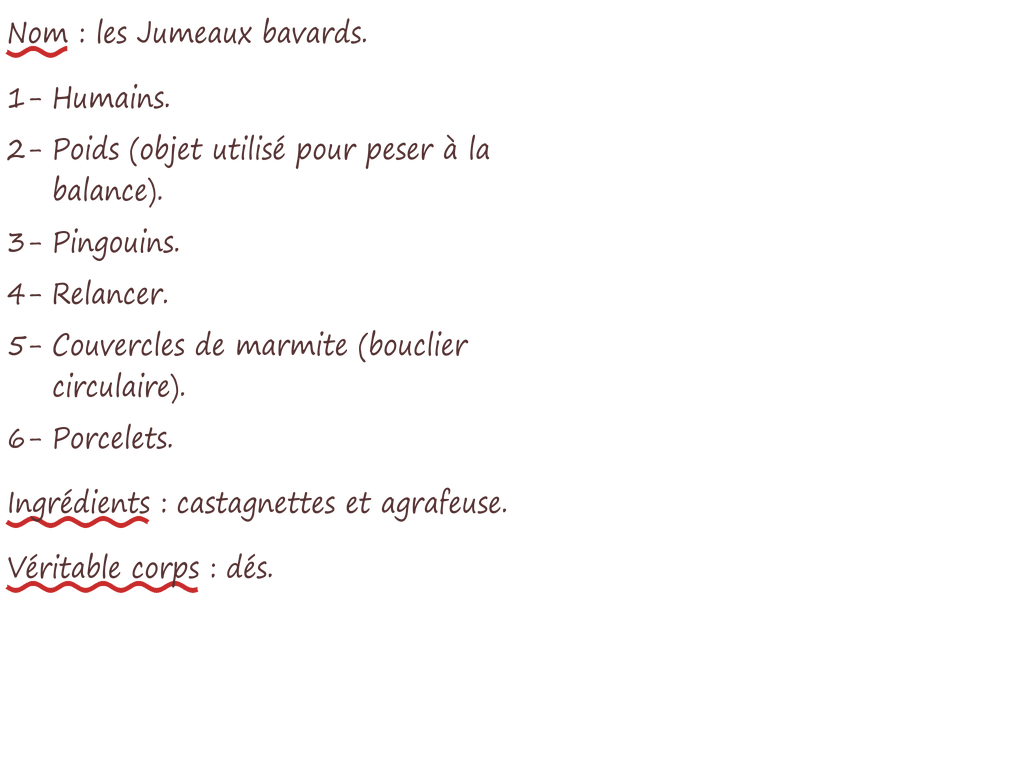
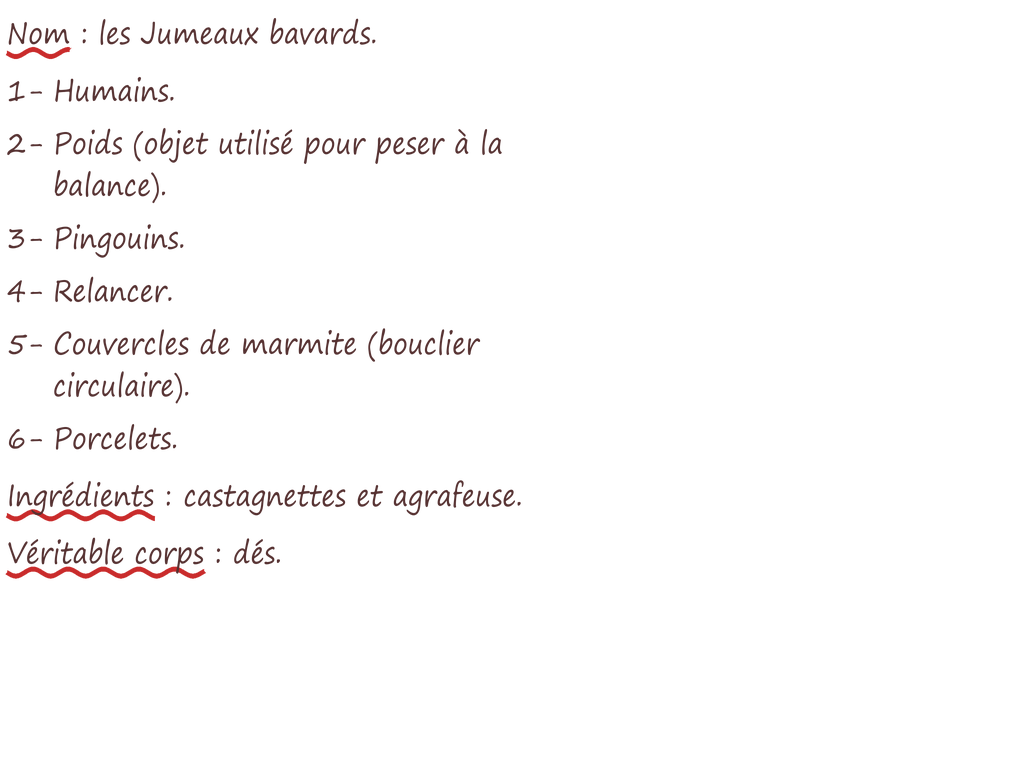
Fix hauteur des images

diff --git a/utils/images/ploy.py b/utils/images/ploy.py
@@ -85,6 +85,7 @@ LINE_COLOR = (201, 42, 42)
 SCALE_X = 0.87          # Segoe Print is wider than the original handwriting
 SIZE_PER_HEIGHT = 0.89  # font size for an original line of a given height
 ENTRY_PITCH = 2.2       # spacing between two entries (in font sizes)
+MIN_ENTRY_PITCH = 1.75  # tightest spacing, before reducing the size
 LINE_PITCH = 1.4        # line spacing inside an entry
 LIST_PITCH = 1.75       # spacing between two items of a numbered list
 WAVE = dict(thickness=5, amplitude=3.5, period=36)  # underline, measured on the English
@@ -166,16 +167,21 @@ def _draw_handwriting(image, texts, underlines, font, size, top):
 
 
 def sheet(image: GameImage, entries: list):
-	"""One entry per item: [underlined label or None, paragraph, paragraph…]."""
+	"""One entry per item: [underlined label or None, paragraph, paragraph…]. The sheet may be
+	as wide as the widest language, but not lower than the English one: the game hides what
+	lies below it."""
 	left, top, size = _metrics(image.target)
-	right, bottom = image.ink_bounds(60)  # area used by the 4 languages
+	right, _ = image.ink_bounds(60)  # width used by the 4 languages
+	bottom = np.flatnonzero((image.target[..., 3] > 60).any(1))[-1]
 	width = (right - left) / SCALE_X
-	for scale in np.arange(1.0, 0.5, -0.02):
-		pitch = ENTRY_PITCH if scale > 0.9 else ENTRY_PITCH * 0.85
-		font, texts, underlines, total = _layout(entries, size * scale, pitch, left / SCALE_X, width)
-		if top + total <= bottom + 4:
+	original = image.target.copy()
+	# the entries get closer before the letters get smaller
+	for scale, pitch in ((s, p) for s in np.arange(1.0, 0.5, -0.02) for p in np.arange(ENTRY_PITCH, MIN_ENTRY_PITCH, -0.1)):
+		font, texts, underlines, _ = _layout(entries, size * scale, pitch, left / SCALE_X, width)
+		image.target = original
+		_draw_handwriting(image, texts, underlines, font, size * scale, top)
+		if np.flatnonzero((image.target[..., 3] > 60).any(1))[-1] <= bottom:
 			break
-	_draw_handwriting(image, texts, underlines, font, size * scale, top)
 
 
 def caption(image: GameImage, text: str):
